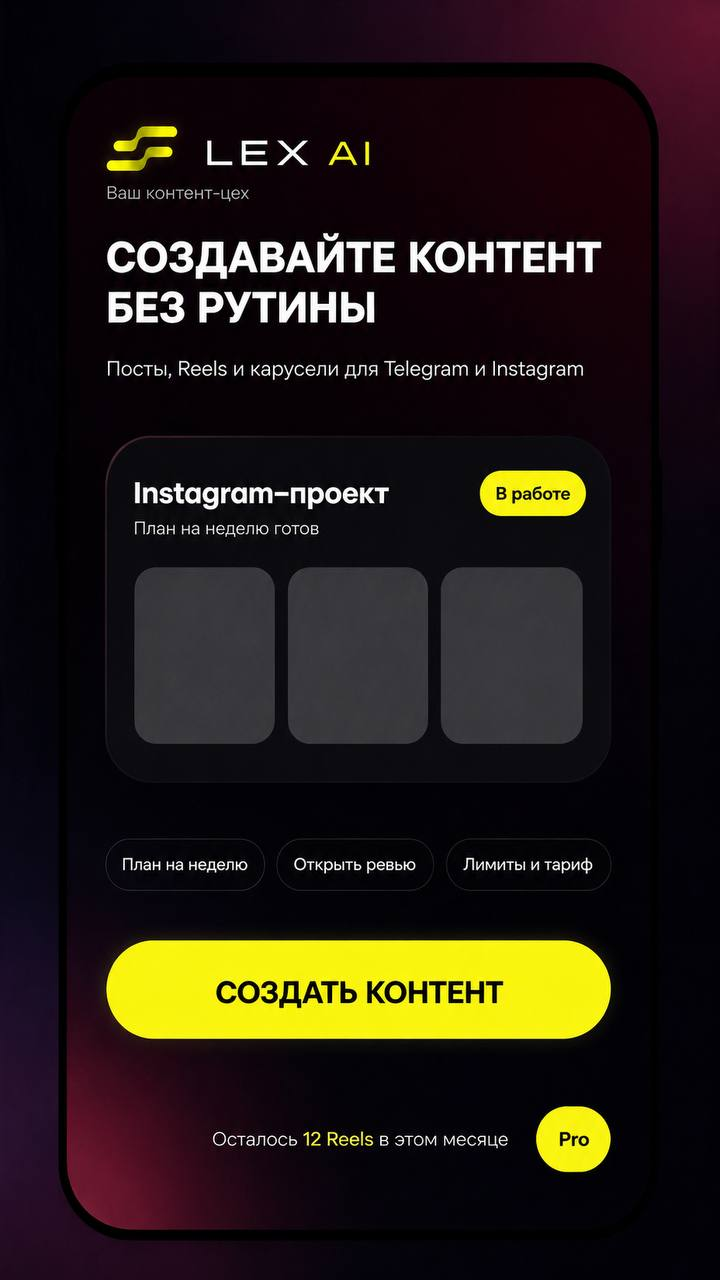
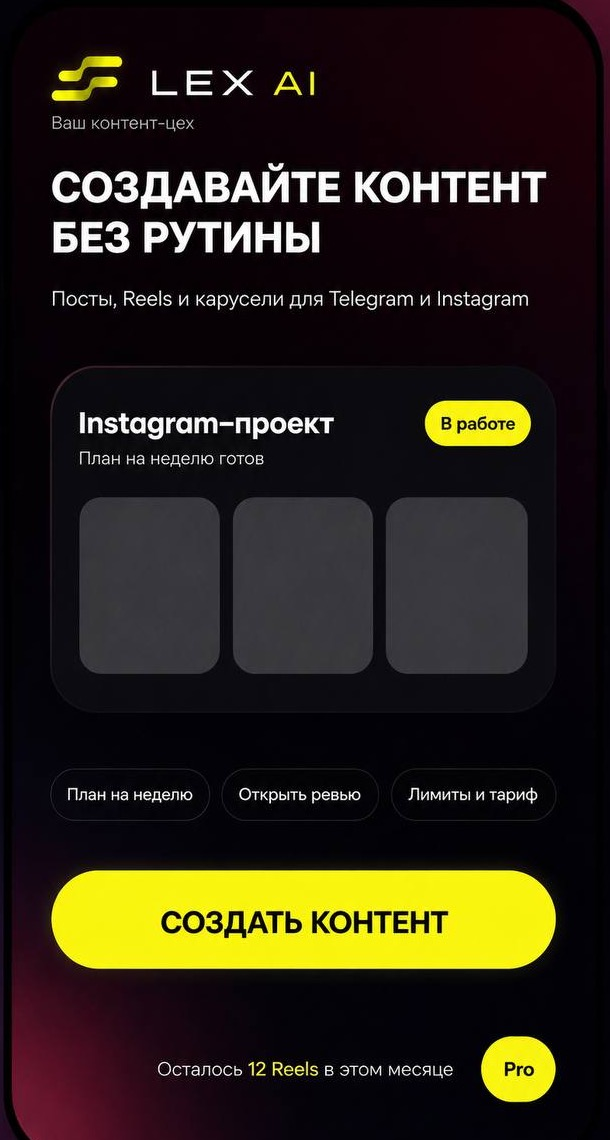
fix(home): обрезать bezel из мокапа + object-fit:contain → ничего не клипается на iPhone
- public/home-mockup.jpg: пересохранён в 610×1140 (bezel вырезан из исходника)
- HomeScreen: убран zoom 1.15, контейнер с aspect-ratio 610/1140 + img object-fit:contain
- Hotspots пересчитаны под новые координаты
- На реальном Mini App viewport (390×844) контент больше не обрезается по краям

diff --git a/components/HomeScreen.tsx b/components/HomeScreen.tsx
@@ -2,23 +2,21 @@
 
 import { hapticImpact, hapticSelection } from "../lib/telegram";
 
-// Координаты кликабельных зон в координатах исходной картинки (720×1280).
-const IMG_W = 720;
-const IMG_H = 1280;
-// Кроп bezel (картинка показывает рамку телефона — убираем её зумом).
-const ZOOM = 1.15;
+// Картинка уже обрезана до содержимого экрана (bezel удалён): 610×1140.
+const IMG_W = 610;
+const IMG_H = 1140;
 
 const HOTSPOTS: Array<{
   id: string;
   x: number; y: number; w: number; h: number;
   onClick: () => void;
 }> = [
-  { id: "card",        x:  60, y: 530,  w: 600, h: 280, onClick: () => hapticSelection() },
-  { id: "pill-plan",   x:  60, y: 850,  w: 230, h: 90,  onClick: () => hapticSelection() },
-  { id: "pill-rev",    x: 290, y: 850,  w: 230, h: 90,  onClick: () => hapticSelection() },
-  { id: "pill-tariff", x: 520, y: 850,  w: 230, h: 90,  onClick: () => hapticSelection() },
-  { id: "cta",         x:  50, y: 970,  w: 620, h: 130, onClick: () => hapticImpact("medium") },
-  { id: "pro",         x: 580, y: 1110, w: 100, h: 70,  onClick: () => hapticSelection() },
+  { id: "card",        x:  40, y: 395, w: 540, h: 360, onClick: () => hapticSelection() },
+  { id: "pill-plan",   x:  40, y: 780, w: 175, h: 80,  onClick: () => hapticSelection() },
+  { id: "pill-rev",    x: 220, y: 780, w: 180, h: 80,  onClick: () => hapticSelection() },
+  { id: "pill-tariff", x: 395, y: 780, w: 185, h: 80,  onClick: () => hapticSelection() },
+  { id: "cta",         x:  30, y: 870, w: 555, h: 115, onClick: () => hapticImpact("medium") },
+  { id: "pro",         x: 480, y: 1050, w: 90, h: 70,  onClick: () => hapticSelection() },
 ];
 
 export default function HomeScreen() {
@@ -30,55 +28,55 @@ export default function HomeScreen() {
         left: 0,
         right: 0,
         bottom: "calc(-1 * (env(safe-area-inset-bottom) + 78px))",
-        overflow: "hidden",
         background: "#0A0608",
+        display: "flex",
+        alignItems: "center",
+        justifyContent: "center",
+        overflow: "hidden",
       }}
     >
-      {/* eslint-disable-next-line @next/next/no-img-element */}
-      <img
-        src="/home-mockup.jpg"
-        alt=""
+      {/* Контейнер совпадает с пропорциями картинки — никаких обрезаний контента. */}
+      <div
         style={{
-          position: "absolute",
-          top: "50%",
-          left: "50%",
-          width: `${ZOOM * 100}%`,
-          height: `${ZOOM * 100}%`,
-          transform: "translate(-50%, -50%)",
-          objectFit: "cover",
-          objectPosition: "center",
-          pointerEvents: "none",
-          userSelect: "none",
+          position: "relative",
+          width: "100%",
+          maxWidth: "100%",
+          aspectRatio: `${IMG_W} / ${IMG_H}`,
+          maxHeight: "100%",
         }}
-      />
-
-      {/* Кликабельные зоны поверх фото */}
-      <div style={{ position: "absolute", inset: 0 }}>
-        {HOTSPOTS.map((h) => {
-          // Пересчёт координат с учётом ZOOM (изображение увеличено и центрировано).
-          const left   = 50 + ((h.x + h.w / 2) / IMG_W - 0.5) * 100 * ZOOM - (h.w / IMG_W) * 50 * ZOOM;
-          const top    = 50 + ((h.y + h.h / 2) / IMG_H - 0.5) * 100 * ZOOM - (h.h / IMG_H) * 50 * ZOOM;
-          const width  = (h.w / IMG_W) * 100 * ZOOM;
-          const height = (h.h / IMG_H) * 100 * ZOOM;
-          return (
-            <button
-              key={h.id}
-              onClick={h.onClick}
-              aria-label={h.id}
-              style={{
-                position: "absolute",
-                left:   `${left}%`,
-                top:    `${top}%`,
-                width:  `${width}%`,
-                height: `${height}%`,
-                background: "transparent",
-                border: "none",
-                padding: 0,
-                cursor: "pointer",
-              }}
-            />
-          );
-        })}
+      >
+        {/* eslint-disable-next-line @next/next/no-img-element */}
+        <img
+          src="/home-mockup.jpg"
+          alt=""
+          draggable={false}
+          style={{
+            width: "100%",
+            height: "100%",
+            objectFit: "contain",
+            display: "block",
+            userSelect: "none",
+            pointerEvents: "none",
+          }}
+        />
+        {HOTSPOTS.map((h) => (
+          <button
+            key={h.id}
+            onClick={h.onClick}
+            aria-label={h.id}
+            style={{
+              position: "absolute",
+              left:   `${(h.x / IMG_W) * 100}%`,
+              top:    `${(h.y / IMG_H) * 100}%`,
+              width:  `${(h.w / IMG_W) * 100}%`,
+              height: `${(h.h / IMG_H) * 100}%`,
+              background: "transparent",
+              border: "none",
+              padding: 0,
+              cursor: "pointer",
+            }}
+          />
+        ))}
       </div>
     </div>
   );
